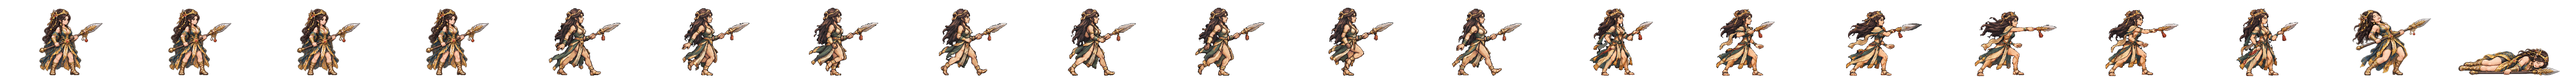
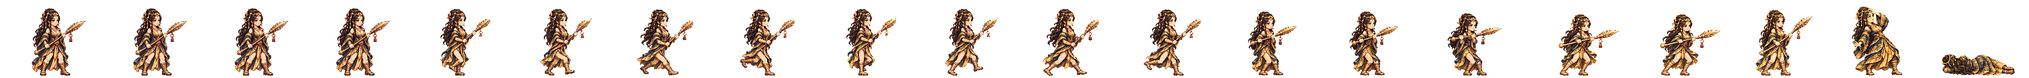
허황옥 새 전투 띠를 게임에 넣음(서기·걷기·금빛 창 찌르기 여덟 칸·쓰러짐·머리 장식 고쳐 달기)
가슴 L 뼈대 첫 장수. 걷기는 창끝을 안내 네모로 둔 것을 창날만 고친 판에서 얹었고, 쓰러짐 첫 칸은 팔을 고친 판을 썼다.
하네스 HEROES 에 음즙 벌(한 손 칼)을 더함.

Claude-Session: https://claude.ai/code/session_01TRiuN7s6aDfSnaHxrkctmU

Changed region(s): [[0.0, 0.0938, 1.0, 0.9688]]

diff --git a/src/realm/data/spritePx.ts b/src/realm/data/spritePx.ts
@@ -1,3 +1,3 @@
 /** public/realm/anim-px/manifest.json 의 사본 — tools/sprite-normalize.mjs 가 만든다 (손으로 고치지 말 것). 칸 [가로, 세로] · feet = 발 줄(칸 위에서 y) · bodyPx = 서 있는 몸 키 */
 import { expandManifest } from './sprite-manifest.ts'
-export const SPRITE_PX: Readonly<Record<string, { readonly cell: readonly [number, number]; readonly feet: number; readonly bodyPx: number; readonly kind: 'general' | 'soldier' | 'folk' | 'crowd'; readonly cells: number }>> = expandManifest<{ readonly cell: readonly [number, number]; readonly feet: number; readonly bodyPx: number; readonly kind: 'general' | 'soldier' | 'folk' | 'crowd'; readonly cells: number }>([{"cell":[166,128],"feet":126,"bodyPx":124,"kind":"soldier","cells":20},{"cell":[116,128],"feet":126,"bodyPx":117,"kind":"soldier","cells":20},{"cell":[127,128],"feet":126,"bodyPx":116,"kind":"soldier","cells":20},{"cell":[269,128],"feet":126,"bodyPx":126,"kind":"soldier","cells":20},{"cell":[503,128],"feet":126,"bodyPx":127,"kind":"soldier","cells":20},{"cell":[614,128],"feet":126,"bodyPx":126,"kind":"soldier","cells":20},{"cell":[200,160],"feet":156,"bodyPx":138,"kind":"general","cells":20},{"cell":[208,160],"feet":155,"bodyPx":138,"kind":"general","cells":20},{"cell":[208,160],"feet":154,"bodyPx":138,"kind":"general","cells":20},{"cell":[304,160],"feet":155,"bodyPx":135,"kind":"general","cells":20},{"cell":[224,160],"feet":156,"bodyPx":139,"kind":"general","cells":20},{"cell":[184,160],"feet":156,"bodyPx":138,"kind":"general","cells":20},{"cell":[208,160],"feet":154,"bodyPx":136,"kind":"general","cells":20},{"cell":[240,160],"feet":156,"bodyPx":138,"kind":"general","cells":20},{"cell":[232,160],"feet":156,"bodyPx":138,"kind":"general","cells":20},{"cell":[208,160],"feet":156,"bodyPx":138,"kind":"general","cells":20},{"cell":[168,160],"feet":156,"bodyPx":138,"kind":"general","cells":20},{"cell":[192,160],"feet":156,"bodyPx":138,"kind":"general","cells":20},{"cell":[168,160],"feet":156,"bodyPx":124,"kind":"general","cells":20},{"cell":[216,160],"feet":156,"bodyPx":130,"kind":"general","cells":20},{"cell":[200,160],"feet":156,"bodyPx":116,"kind":"general","cells":20},{"cell":[200,160],"feet":156,"bodyPx":135,"kind":"general","cells":20},{"cell":[280,160],"feet":156,"bodyPx":138,"kind":"general","cells":20},{"cell":[232,160],"feet":155,"bodyPx":138,"kind":"general","cells":20},{"cell":[232,160],"feet":156,"bodyPx":134,"kind":"general","cells":20},{"cell":[144,160],"feet":156,"bodyPx":70,"kind":"general","cells":20},{"cell":[208,160],"feet":156,"bodyPx":70,"kind":"general","cells":20},{"cell":[192,160],"feet":156,"bodyPx":70,"kind":"general","cells":20},{"cell":[240,160],"feet":155,"bodyPx":138,"kind":"general","cells":20},{"cell":[160,160],"feet":156,"bodyPx":135,"kind":"general","cells":20},{"cell":[192,160],"feet":156,"bodyPx":128,"kind":"general","cells":20},{"cell":[224,160],"feet":155,"bodyPx":138,"kind":"general","cells":20},{"cell":[232,160],"feet":156,"bodyPx":139,"kind":"general","cells":20},{"cell":[264,160],"feet":155,"bodyPx":138,"kind":"general","cells":20},{"cell":[216,160],"feet":156,"bodyPx":138,"kind":"general","cells":20},{"cell":[208,160],"feet":156,"bodyPx":134,"kind":"general","cells":20},{"cell":[176,160],"feet":156,"bodyPx":130,"kind":"general","cells":20},{"cell":[248,160],"feet":156,"bodyPx":138,"kind":"general","cells":20},{"cell":[248,160],"feet":155,"bodyPx":138,"kind":"general","cells":20},{"cell":[192,160],"feet":155,"bodyPx":138,"kind":"general","cells":20},{"cell":[192,160],"feet":156,"bodyPx":124,"kind":"general","cells":20},{"cell":[208,160],"feet":154,"bodyPx":131,"kind":"general","cells":20},{"cell":[256,160],"feet":156,"bodyPx":138,"kind":"general","cells":20},{"cell":[232,160],"feet":156,"bodyPx":73,"kind":"general","cells":20},{"cell":[256,160],"feet":155,"bodyPx":138,"kind":"general","cells":20},{"cell":[264,160],"feet":156,"bodyPx":138,"kind":"general","cells":20},{"cell":[224,160],"feet":156,"bodyPx":138,"kind":"general","cells":20},{"cell":[224,160],"feet":156,"bodyPx":128,"kind":"general","cells":20},{"cell":[176,160],"feet":156,"bodyPx":129,"kind":"general","cells":20},{"cell":[208,160],"feet":154,"bodyPx":139,"kind":"general","cells":20},{"cell":[208,160],"feet":156,"bodyPx":132,"kind":"general","cells":20},{"cell":[216,160],"feet":155,"bodyPx":138,"kind":"general","cells":20},{"cell":[184,160],"feet":156,"bodyPx":122,"kind":"general","cells":20},{"cell":[176,160],"feet":156,"bodyPx":138,"kind":"general","cells":20},{"cell":[280,160],"feet":155,"bodyPx":133,"kind":"general","cells":20},{"cell":[176,160],"feet":156,"bodyPx":70,"kind":"general","cells":20},{"cell":[186,128],"feet":126,"bodyPx":127,"kind":"soldier","cells":20},{"cell":[298,128],"feet":126,"bodyPx":126,"kind":"soldier","cells":20},{"cell":[82,128],"feet":126,"bodyPx":114,"kind":"folk","cells":8},{"cell":[134,128],"feet":126,"bodyPx":119,"kind":"soldier","cells":20},{"cell":[380,128],"feet":126,"bodyPx":124,"kind":"soldier","cells":20},{"cell":[114,128],"feet":126,"bodyPx":115,"kind":"soldier","cells":20},{"cell":[122,128],"feet":126,"bodyPx":114,"kind":"soldier","cells":20},{"cell":[254,128],"feet":126,"bodyPx":128,"kind":"soldier","cells":20},{"cell":[438,128],"feet":126,"bodyPx":126,"kind":"soldier","cells":20},{"cell":[88,128],"feet":126,"bodyPx":113,"kind":"folk","cells":8},{"cell":[100,128],"feet":126,"bodyPx":115,"kind":"folk","cells":8},{"cell":[108,128],"feet":126,"bodyPx":115,"kind":"folk","cells":8},{"cell":[63,128],"feet":126,"bodyPx":113,"kind":"folk","cells":8},{"cell":[69,96],"feet":96,"bodyPx":96,"kind":"crowd","cells":1},{"cell":[54,96],"feet":96,"bodyPx":96,"kind":"crowd","cells":1},{"cell":[47,96],"feet":96,"bodyPx":96,"kind":"crowd","cells":1},{"cell":[49,96],"feet":96,"bodyPx":96,"kind":"crowd","cells":1},{"cell":[57,96],"feet":96,"bodyPx":96,"kind":"crowd","cells":1},{"cell":[55,96],"feet":96,"bodyPx":96,"kind":"crowd","cells":1},{"cell":[45,96],"feet":96,"bodyPx":96,"kind":"crowd","cells":1},{"cell":[53,96],"feet":96,"bodyPx":96,"kind":"crowd","cells":1},{"cell":[64,96],"feet":96,"bodyPx":96,"kind":"crowd","cells":1},{"cell":[184,160],"feet":156,"bodyPx":124,"kind":"general","cells":20},{"cell":[184,160],"feet":156,"bodyPx":134,"kind":"general","cells":20},{"cell":[224,160],"feet":156,"bodyPx":133,"kind":"general","cells":20},{"cell":[192,160],"feet":156,"bodyPx":135,"kind":"general","cells":20},{"cell":[184,160],"feet":156,"bodyPx":137,"kind":"general","cells":20},{"cell":[216,160],"feet":156,"bodyPx":134,"kind":"general","cells":20},{"cell":[216,160],"feet":156,"bodyPx":132,"kind":"general","cells":20},{"cell":[288,160],"feet":156,"bodyPx":138,"kind":"general","cells":20},{"cell":[192,160],"feet":156,"bodyPx":118,"kind":"general","cells":20},{"cell":[192,160],"feet":156,"bodyPx":134,"kind":"general","cells":20},{"cell":[192,160],"feet":157,"bodyPx":139,"kind":"general","cells":20},{"cell":[184,160],"feet":156,"bodyPx":128,"kind":"general","cells":20},{"cell":[240,160],"feet":156,"bodyPx":128,"kind":"general","cells":20},{"cell":[184,160],"feet":156,"bodyPx":132,"kind":"general","cells":20},{"cell":[208,160],"feet":156,"bodyPx":123,"kind":"general","cells":20},{"cell":[208,160],"feet":154,"bodyPx":137,"kind":"general","cells":20},{"cell":[176,160],"feet":156,"bodyPx":116,"kind":"general","cells":20},{"cell":[272,160],"feet":156,"bodyPx":138,"kind":"general","cells":20},{"cell":[176,160],"feet":156,"bodyPx":122,"kind":"general","cells":20},{"cell":[232,160],"feet":156,"bodyPx":127,"kind":"general","cells":20},{"cell":[176,160],"feet":156,"bodyPx":137,"kind":"general","cells":20},{"cell":[184,160],"feet":156,"bodyPx":133,"kind":"general","cells":20}],[["axe",0],["bandit-chief",1],["bandit-club",2],["boat",3],["bow",4],["crossbow",5],["gen-adogan",6],["gen-alpyeong",7],["gen-ara",8],["gen-areum",8],["gen-aryeong",9],["gen-bakdal",6],["gen-baram",10],["gen-bdanbi",11],["gen-beom",12],["gen-beombal",11],["gen-beomi",13],["gen-bira",14],["gen-biryu",15],["gen-budeul",16],["gen-byeol",17],["gen-daemusin",18],["gen-daeso",19],["gen-dallae2",11],["gen-dalli",11],["gen-damul",20],["gen-danbi",15],["gen-dangung",17],["gen-darae",21],["gen-dokmudeom",7],["gen-duman",22],["gen-eomni",23],["gen-eureum",24],["gen-g-bow",25],["gen-g-spear",26],["gen-g-sword",27],["gen-gaennae",6],["gen-gamsil",28],["gen-gaon",29],["gen-geota",15],["gen-geumbawi",11],["gen-geumha",30],["gen-goeun",15],["gen-gom",31],["gen-gomok",15],["gen-gureum",28],["gen-guryema",17],["gen-gwaeyu",14],["gen-haebi",8],["gen-haedal",6],["gen-haesol",32],["gen-halla",7],["gen-heo",33],["gen-hneoul",11],["gen-hogong",34],["gen-hojin",15],["gen-horselord",35],["gen-hwalmi",36],["gen-hyeokgeose",17],["gen-hyeopbo",6],["gen-irang",15],["gen-jibaekho",37],["gen-jinha",38],["gen-jita",39],["gen-jumong",40],["gen-keundol",7],["gen-maehwa",41],["gen-maenun",17],["gen-malgalgi",42],["gen-mari",13],["gen-maro",37],["gen-maryeo",15],["gen-mdallae",32],["gen-mir",6],["gen-mount",43],["gen-mulbeom",44],["gen-mulsae",34],["gen-musoe",34],["gen-noeul",8],["gen-nuri",45],["gen-ocheongan",46],["gen-odi",38],["gen-odogan",6],["gen-ogan",17],["gen-oi",47],["gen-olddaeso",24],["gen-onjo",48],["gen-pidogan",15],["gen-sagong",49],["gen-sdallae",6],["gen-sincheongan",34],["gen-singwigan",34],["gen-sinneoul",8],["gen-sobeol",23],["gen-soebi",6],["gen-soebo",50],["gen-soenun",37],["gen-sogeumbi",51],["gen-songbi",46],["gen-songyang",52],["gen-sori",53],["gen-soseono",54],["gen-suro",17],["gen-tahae",6],["gen-tneoul",46],["gen-w-bow",25],["gen-w-spear",55],["gen-waechief",15],["gen-wan",34],["gen-yeodogan",15],["gen-yucheongan",15],["gen-yusugan",37],["horse",56],["marine",57],["migrant",58],["militia",59],["pike",60],["pirate-captain",61],["pirate-sword",62],["shield",63],["spear",64],["villager-builder",65],["villager-farmer",66],["villager-porter",67],["villager-woman",68],["crowd-b1",69],["crowd-b2",70],["crowd-b3",71],["crowd-b4",72],["crowd-b5",73],["crowd-b6",74],["crowd-f1",69],["crowd-f2",74],["crowd-f3",75],["crowd-f4",76],["crowd-f5",69],["crowd-f6",77],["gen-dalbit",15],["gen-base-g-07-drunk-warrior",17],["gen-base-g-40-anya-adan",15],["gen-base-w-13-young-archer",8],["gen-base-g-03-sea-trader",13],["gen-base-w-10-pirate-captain",49],["gen-base-w-64-miri-dallae",49],["gen-base-g-41-goja-bau",13],["gen-base-g-42-dokro-garam",45],["gen-base-g-09-farmer-conscript",34],["gen-base-w-02-goguryeo-lady",34],["gen-base-w-17-mahan-pearl-diver",8],["gen-base-g-17-saro-isageum",50],["gen-base-g-18-daegaya-king",78],["gen-base-g-35-dabeol-dalgu",15],["gen-base-g-19-sabeol-veteran",34],["gen-base-w-23-usisan-whale-queen",34],["gen-base-g-36-gammun-gamdol",46],["gen-base-g-20-samul-sea-lord",42],["gen-base-g-37-eumjeup-jeup",11],["gen-base-g-38-chopal-palmae",17],["gen-base-w-75-daegaya-soemoe",17],["gen-base-g-45-dabeol-deulgae",11],["gen-base-g-04-jinhan-giant",15],["gen-base-g-08-veteran",15],["gen-base-w-18-jinhan-salt-widow",15],["gen-base-w-12-court-dancer",79],["gen-base-w-83-gyeonji-beodeul",80],["gen-base-w-05-baekje-queen",81],["gen-base-w-21-baekje-court-dancer",11],["gen-base-g-01-master-smith",82],["gen-base-g-93-jomun-solgae",36],["gen-base-g-57-bihwa-neup",13],["gen-base-w-72-eumjeup-beol",15],["gen-base-w-102-garak-dana",34],["gen-base-g-68-baekje-onnuri",15],["gen-base-w-27-mokji-jinha",6],["gen-base-g-22-ungcheon-gomnae",6],["gen-base-g-23-sangdang-soedal",15],["gen-base-g-24-wansan-onsan",6],["gen-base-g-25-balla-keunmoe",34],["gen-base-g-61-heomcheuk-bawi",34],["gen-base-g-88-wander-soeul",46],["gen-base-w-14-feast-spy",6],["gen-base-g-12-silla-youth",83],["gen-base-w-08-mahan-warrior",13],["gen-base-g-62-beonye-hanul",13],["gen-base-g-63-heomcheuk-beogeum",15],["gen-base-g-84-wander-seoneul",15],["gen-base-w-50-siljik-mulga",34],["gen-base-g-46-uga-nureongso",34],["gen-base-w-80-usan-gangchi",13],["gen-base-g-47-guga-sanyanggae",34],["gen-base-w-76-gampyeong-baetsagong",37],["gen-base-g-05-mahan-chieftain",84],["gen-base-g-58-usan-uhae",15],["gen-base-g-27-maek-maekdol",15],["gen-base-w-53-hwanna-gabi",16],["gen-base-w-29-golpo-janmul",37],["gen-base-g-53-baekje-haeru",6],["gen-base-w-71-yeonna-neoul",13],["gen-base-w-79-yangmaek-solmae",34],["gen-base-w-34-chopal-deulme",45],["gen-base-g-44-maga-malgup",85],["gen-base-w-31-dabeol-dalbit",49],["gen-base-g-51-biryuna-mulgyeol",46],["gen-base-g-48-gwanna-musoe",15],["gen-base-g-32-uga-sodu",14],["gen-base-g-49-goguryeo-sona",86],["gen-base-g-30-gwanna-soemoe",46],["gen-base-g-52-tamna-oreum",11],["gen-base-g-29-yeonna-myeongsol",40],["gen-base-w-56-dongokjeo-sogeum",87],["gen-base-g-54-mokji-mahan",14],["gen-base-g-33-jeoga-metdol",17],["gen-base-w-36-baekje-maena",17],["gen-base-w-38-sangdang-bulmae",6],["gen-base-w-39-gosaburi-galmae",88],["gen-base-w-40-mujin-munui",50],["gen-base-w-41-hwanna-beodeul",89],["gen-base-w-43-uga-nuri",42],["gen-base-w-45-tamna-oreumbi",11],["gen-base-g-60-golbeol-golgae",11],["gen-base-g-61-apdok-ap",34],["gen-base-g-62-gammun-gamnamu",6],["gen-base-g-63-chopal-yeoul",37],["gen-base-g-64-michuhol-sogeumkkun",13],["gen-base-g-65-sangdang-soemangchi",46],["gen-base-g-66-geonma-malbalgup",90],["gen-base-g-67-gosaburi-buri",91],["gen-base-g-68-mujin-bitgoeul",11],["gen-base-g-69-goryong-yong",46],["gen-base-g-70-siljik-pado",13],["gen-base-w-81-byeokjin-byeolbit",14],["gen-base-w-46-geonma-maru",37],["gen-base-w-48-mujin-mudeung",13],["gen-base-g-26-gampyeong-gaetbeol",14],["gen-base-g-60-eupcha-hangyeol",92],["gen-base-g-15-shaman-man",34],["gen-base-g-85-wander-ure",37],["gen-base-g-43-hwanna-amnok",15],["gen-base-g-50-bullae-gwaha",81],["gen-base-g-55-saro-bakdal",15],["gen-base-g-56-haseulla-gwahama",6],["gen-base-w-06-buyeo-huntress",93],["gen-base-w-22-dongye-tiger-huntress",8],["gen-base-w-25-bihwa-priestess",34],["gen-base-w-24-apdok-queen",11],["gen-base-w-61-iseo-sinae",15],["gen-base-w-26-iseo-tomboy-general",45],["gen-base-g-59-yangmaek-maekson",94],["gen-aw1-haebi",46],["gen-aw1-soseono",95],["gen-aw1-gamsil",11],["gen-aw1-mir",53],["gen-aw1-dangung",6],["gen-aw1-ara",46],["gen-aw1-jumong",96],["gen-aw1-onjo",97],["gen-aw1-base-w-83-gyeonji-beodeul",17],["gen-aw1-heo",45],["gen-aw1-base-g-38-chopal-palmae",6],["gen-aw1-base-w-25-bihwa-priestess",79],["gen-aw1-sori",16],["gen-aw1-gomok",6],["gen-aw1-irang",17],["gen-aw1-budeul",16],["gen-aw1-gom",13],["gen-aw1-sdallae",6],["gen-aw1-base-w-13-young-archer",6],["gen-aw1-base-w-36-baekje-maena",98],["gen-aw1-base-g-09-farmer-conscript",45],["gen-aw1-base-w-02-goguryeo-lady",99],["gen-aw1-haedal",11],["gen-aw1-hogong",6],["gen-aw1-maehwa",53],["gen-aw1-base-w-06-buyeo-huntress",14],["gen-aw1-base-w-08-mahan-warrior",46],["gen-aw1-base-w-29-golpo-janmul",46],["gen-aw1-base-w-31-dabeol-dalbit",17],["gen-aw1-base-w-38-sangdang-bulmae",16],["gen-aw1-bira",34],["gen-aw1-base-w-53-hwanna-gabi",16],["gen-aw1-base-w-56-dongokjeo-sogeum",53],["gen-aw1-base-w-72-eumjeup-beol",17],["gen-aw1-bdanbi",16],["gen-aw1-beom",11],["gen-aw1-beombal",11],["gen-aw1-byeol",17],["gen-aw1-dalli",53],["gen-aw1-malgalgi",37],["gen-aw1-sincheongan",34]])
+export const SPRITE_PX: Readonly<Record<string, { readonly cell: readonly [number, number]; readonly feet: number; readonly bodyPx: number; readonly kind: 'general' | 'soldier' | 'folk' | 'crowd'; readonly cells: number }>> = expandManifest<{ readonly cell: readonly [number, number]; readonly feet: number; readonly bodyPx: number; readonly kind: 'general' | 'soldier' | 'folk' | 'crowd'; readonly cells: number }>([{"cell":[166,128],"feet":126,"bodyPx":124,"kind":"soldier","cells":20},{"cell":[116,128],"feet":126,"bodyPx":117,"kind":"soldier","cells":20},{"cell":[127,128],"feet":126,"bodyPx":116,"kind":"soldier","cells":20},{"cell":[269,128],"feet":126,"bodyPx":126,"kind":"soldier","cells":20},{"cell":[503,128],"feet":126,"bodyPx":127,"kind":"soldier","cells":20},{"cell":[614,128],"feet":126,"bodyPx":126,"kind":"soldier","cells":20},{"cell":[200,160],"feet":156,"bodyPx":138,"kind":"general","cells":20},{"cell":[208,160],"feet":155,"bodyPx":138,"kind":"general","cells":20},{"cell":[208,160],"feet":154,"bodyPx":138,"kind":"general","cells":20},{"cell":[304,160],"feet":155,"bodyPx":135,"kind":"general","cells":20},{"cell":[224,160],"feet":156,"bodyPx":139,"kind":"general","cells":20},{"cell":[184,160],"feet":156,"bodyPx":138,"kind":"general","cells":20},{"cell":[208,160],"feet":154,"bodyPx":136,"kind":"general","cells":20},{"cell":[240,160],"feet":156,"bodyPx":138,"kind":"general","cells":20},{"cell":[232,160],"feet":156,"bodyPx":138,"kind":"general","cells":20},{"cell":[208,160],"feet":156,"bodyPx":138,"kind":"general","cells":20},{"cell":[168,160],"feet":156,"bodyPx":138,"kind":"general","cells":20},{"cell":[192,160],"feet":156,"bodyPx":138,"kind":"general","cells":20},{"cell":[168,160],"feet":156,"bodyPx":124,"kind":"general","cells":20},{"cell":[216,160],"feet":156,"bodyPx":130,"kind":"general","cells":20},{"cell":[200,160],"feet":156,"bodyPx":116,"kind":"general","cells":20},{"cell":[200,160],"feet":156,"bodyPx":135,"kind":"general","cells":20},{"cell":[280,160],"feet":156,"bodyPx":138,"kind":"general","cells":20},{"cell":[232,160],"feet":155,"bodyPx":138,"kind":"general","cells":20},{"cell":[232,160],"feet":156,"bodyPx":134,"kind":"general","cells":20},{"cell":[144,160],"feet":156,"bodyPx":70,"kind":"general","cells":20},{"cell":[208,160],"feet":156,"bodyPx":70,"kind":"general","cells":20},{"cell":[192,160],"feet":156,"bodyPx":70,"kind":"general","cells":20},{"cell":[240,160],"feet":155,"bodyPx":138,"kind":"general","cells":20},{"cell":[160,160],"feet":156,"bodyPx":135,"kind":"general","cells":20},{"cell":[192,160],"feet":156,"bodyPx":128,"kind":"general","cells":20},{"cell":[224,160],"feet":155,"bodyPx":138,"kind":"general","cells":20},{"cell":[232,160],"feet":156,"bodyPx":139,"kind":"general","cells":20},{"cell":[216,160],"feet":156,"bodyPx":138,"kind":"general","cells":20},{"cell":[208,160],"feet":156,"bodyPx":134,"kind":"general","cells":20},{"cell":[176,160],"feet":156,"bodyPx":130,"kind":"general","cells":20},{"cell":[248,160],"feet":156,"bodyPx":138,"kind":"general","cells":20},{"cell":[248,160],"feet":155,"bodyPx":138,"kind":"general","cells":20},{"cell":[192,160],"feet":155,"bodyPx":138,"kind":"general","cells":20},{"cell":[192,160],"feet":156,"bodyPx":124,"kind":"general","cells":20},{"cell":[208,160],"feet":154,"bodyPx":131,"kind":"general","cells":20},{"cell":[256,160],"feet":156,"bodyPx":138,"kind":"general","cells":20},{"cell":[232,160],"feet":156,"bodyPx":73,"kind":"general","cells":20},{"cell":[256,160],"feet":155,"bodyPx":138,"kind":"general","cells":20},{"cell":[264,160],"feet":156,"bodyPx":138,"kind":"general","cells":20},{"cell":[224,160],"feet":156,"bodyPx":138,"kind":"general","cells":20},{"cell":[224,160],"feet":156,"bodyPx":128,"kind":"general","cells":20},{"cell":[176,160],"feet":156,"bodyPx":129,"kind":"general","cells":20},{"cell":[208,160],"feet":154,"bodyPx":139,"kind":"general","cells":20},{"cell":[208,160],"feet":156,"bodyPx":132,"kind":"general","cells":20},{"cell":[216,160],"feet":155,"bodyPx":138,"kind":"general","cells":20},{"cell":[184,160],"feet":156,"bodyPx":122,"kind":"general","cells":20},{"cell":[176,160],"feet":156,"bodyPx":138,"kind":"general","cells":20},{"cell":[280,160],"feet":155,"bodyPx":133,"kind":"general","cells":20},{"cell":[176,160],"feet":156,"bodyPx":70,"kind":"general","cells":20},{"cell":[186,128],"feet":126,"bodyPx":127,"kind":"soldier","cells":20},{"cell":[298,128],"feet":126,"bodyPx":126,"kind":"soldier","cells":20},{"cell":[82,128],"feet":126,"bodyPx":114,"kind":"folk","cells":8},{"cell":[134,128],"feet":126,"bodyPx":119,"kind":"soldier","cells":20},{"cell":[380,128],"feet":126,"bodyPx":124,"kind":"soldier","cells":20},{"cell":[114,128],"feet":126,"bodyPx":115,"kind":"soldier","cells":20},{"cell":[122,128],"feet":126,"bodyPx":114,"kind":"soldier","cells":20},{"cell":[254,128],"feet":126,"bodyPx":128,"kind":"soldier","cells":20},{"cell":[438,128],"feet":126,"bodyPx":126,"kind":"soldier","cells":20},{"cell":[88,128],"feet":126,"bodyPx":113,"kind":"folk","cells":8},{"cell":[100,128],"feet":126,"bodyPx":115,"kind":"folk","cells":8},{"cell":[108,128],"feet":126,"bodyPx":115,"kind":"folk","cells":8},{"cell":[63,128],"feet":126,"bodyPx":113,"kind":"folk","cells":8},{"cell":[69,96],"feet":96,"bodyPx":96,"kind":"crowd","cells":1},{"cell":[54,96],"feet":96,"bodyPx":96,"kind":"crowd","cells":1},{"cell":[47,96],"feet":96,"bodyPx":96,"kind":"crowd","cells":1},{"cell":[49,96],"feet":96,"bodyPx":96,"kind":"crowd","cells":1},{"cell":[57,96],"feet":96,"bodyPx":96,"kind":"crowd","cells":1},{"cell":[55,96],"feet":96,"bodyPx":96,"kind":"crowd","cells":1},{"cell":[45,96],"feet":96,"bodyPx":96,"kind":"crowd","cells":1},{"cell":[53,96],"feet":96,"bodyPx":96,"kind":"crowd","cells":1},{"cell":[64,96],"feet":96,"bodyPx":96,"kind":"crowd","cells":1},{"cell":[184,160],"feet":156,"bodyPx":124,"kind":"general","cells":20},{"cell":[184,160],"feet":156,"bodyPx":134,"kind":"general","cells":20},{"cell":[224,160],"feet":156,"bodyPx":133,"kind":"general","cells":20},{"cell":[192,160],"feet":156,"bodyPx":135,"kind":"general","cells":20},{"cell":[184,160],"feet":156,"bodyPx":137,"kind":"general","cells":20},{"cell":[216,160],"feet":156,"bodyPx":134,"kind":"general","cells":20},{"cell":[216,160],"feet":156,"bodyPx":132,"kind":"general","cells":20},{"cell":[288,160],"feet":156,"bodyPx":138,"kind":"general","cells":20},{"cell":[192,160],"feet":156,"bodyPx":118,"kind":"general","cells":20},{"cell":[192,160],"feet":156,"bodyPx":134,"kind":"general","cells":20},{"cell":[192,160],"feet":157,"bodyPx":139,"kind":"general","cells":20},{"cell":[184,160],"feet":156,"bodyPx":128,"kind":"general","cells":20},{"cell":[240,160],"feet":156,"bodyPx":128,"kind":"general","cells":20},{"cell":[184,160],"feet":156,"bodyPx":132,"kind":"general","cells":20},{"cell":[208,160],"feet":156,"bodyPx":123,"kind":"general","cells":20},{"cell":[208,160],"feet":154,"bodyPx":137,"kind":"general","cells":20},{"cell":[176,160],"feet":156,"bodyPx":116,"kind":"general","cells":20},{"cell":[272,160],"feet":156,"bodyPx":138,"kind":"general","cells":20},{"cell":[176,160],"feet":156,"bodyPx":122,"kind":"general","cells":20},{"cell":[232,160],"feet":156,"bodyPx":127,"kind":"general","cells":20},{"cell":[176,160],"feet":156,"bodyPx":137,"kind":"general","cells":20},{"cell":[184,160],"feet":156,"bodyPx":133,"kind":"general","cells":20}],[["axe",0],["bandit-chief",1],["bandit-club",2],["boat",3],["bow",4],["crossbow",5],["gen-adogan",6],["gen-alpyeong",7],["gen-ara",8],["gen-areum",8],["gen-aryeong",9],["gen-bakdal",6],["gen-baram",10],["gen-bdanbi",11],["gen-beom",12],["gen-beombal",11],["gen-beomi",13],["gen-bira",14],["gen-biryu",15],["gen-budeul",16],["gen-byeol",17],["gen-daemusin",18],["gen-daeso",19],["gen-dallae2",11],["gen-dalli",11],["gen-damul",20],["gen-danbi",15],["gen-dangung",17],["gen-darae",21],["gen-dokmudeom",7],["gen-duman",22],["gen-eomni",23],["gen-eureum",24],["gen-g-bow",25],["gen-g-spear",26],["gen-g-sword",27],["gen-gaennae",6],["gen-gamsil",28],["gen-gaon",29],["gen-geota",15],["gen-geumbawi",11],["gen-geumha",30],["gen-goeun",15],["gen-gom",31],["gen-gomok",15],["gen-gureum",28],["gen-guryema",17],["gen-gwaeyu",14],["gen-haebi",8],["gen-haedal",6],["gen-haesol",32],["gen-halla",7],["gen-heo",8],["gen-hneoul",11],["gen-hogong",33],["gen-hojin",15],["gen-horselord",34],["gen-hwalmi",35],["gen-hyeokgeose",17],["gen-hyeopbo",6],["gen-irang",15],["gen-jibaekho",36],["gen-jinha",37],["gen-jita",38],["gen-jumong",39],["gen-keundol",7],["gen-maehwa",40],["gen-maenun",17],["gen-malgalgi",41],["gen-mari",13],["gen-maro",36],["gen-maryeo",15],["gen-mdallae",32],["gen-mir",6],["gen-mount",42],["gen-mulbeom",43],["gen-mulsae",33],["gen-musoe",33],["gen-noeul",8],["gen-nuri",44],["gen-ocheongan",45],["gen-odi",37],["gen-odogan",6],["gen-ogan",17],["gen-oi",46],["gen-olddaeso",24],["gen-onjo",47],["gen-pidogan",15],["gen-sagong",48],["gen-sdallae",6],["gen-sincheongan",33],["gen-singwigan",33],["gen-sinneoul",8],["gen-sobeol",23],["gen-soebi",6],["gen-soebo",49],["gen-soenun",36],["gen-sogeumbi",50],["gen-songbi",45],["gen-songyang",51],["gen-sori",52],["gen-soseono",53],["gen-suro",17],["gen-tahae",6],["gen-tneoul",45],["gen-w-bow",25],["gen-w-spear",54],["gen-waechief",15],["gen-wan",33],["gen-yeodogan",15],["gen-yucheongan",15],["gen-yusugan",36],["horse",55],["marine",56],["migrant",57],["militia",58],["pike",59],["pirate-captain",60],["pirate-sword",61],["shield",62],["spear",63],["villager-builder",64],["villager-farmer",65],["villager-porter",66],["villager-woman",67],["crowd-b1",68],["crowd-b2",69],["crowd-b3",70],["crowd-b4",71],["crowd-b5",72],["crowd-b6",73],["crowd-f1",68],["crowd-f2",73],["crowd-f3",74],["crowd-f4",75],["crowd-f5",68],["crowd-f6",76],["gen-dalbit",15],["gen-base-g-07-drunk-warrior",17],["gen-base-g-40-anya-adan",15],["gen-base-w-13-young-archer",8],["gen-base-g-03-sea-trader",13],["gen-base-w-10-pirate-captain",48],["gen-base-w-64-miri-dallae",48],["gen-base-g-41-goja-bau",13],["gen-base-g-42-dokro-garam",44],["gen-base-g-09-farmer-conscript",33],["gen-base-w-02-goguryeo-lady",33],["gen-base-w-17-mahan-pearl-diver",8],["gen-base-g-17-saro-isageum",49],["gen-base-g-18-daegaya-king",77],["gen-base-g-35-dabeol-dalgu",15],["gen-base-g-19-sabeol-veteran",33],["gen-base-w-23-usisan-whale-queen",33],["gen-base-g-36-gammun-gamdol",45],["gen-base-g-20-samul-sea-lord",41],["gen-base-g-37-eumjeup-jeup",11],["gen-base-g-38-chopal-palmae",17],["gen-base-w-75-daegaya-soemoe",17],["gen-base-g-45-dabeol-deulgae",11],["gen-base-g-04-jinhan-giant",15],["gen-base-g-08-veteran",15],["gen-base-w-18-jinhan-salt-widow",15],["gen-base-w-12-court-dancer",78],["gen-base-w-83-gyeonji-beodeul",79],["gen-base-w-05-baekje-queen",80],["gen-base-w-21-baekje-court-dancer",11],["gen-base-g-01-master-smith",81],["gen-base-g-93-jomun-solgae",35],["gen-base-g-57-bihwa-neup",13],["gen-base-w-72-eumjeup-beol",15],["gen-base-w-102-garak-dana",33],["gen-base-g-68-baekje-onnuri",15],["gen-base-w-27-mokji-jinha",6],["gen-base-g-22-ungcheon-gomnae",6],["gen-base-g-23-sangdang-soedal",15],["gen-base-g-24-wansan-onsan",6],["gen-base-g-25-balla-keunmoe",33],["gen-base-g-61-heomcheuk-bawi",33],["gen-base-g-88-wander-soeul",45],["gen-base-w-14-feast-spy",6],["gen-base-g-12-silla-youth",82],["gen-base-w-08-mahan-warrior",13],["gen-base-g-62-beonye-hanul",13],["gen-base-g-63-heomcheuk-beogeum",15],["gen-base-g-84-wander-seoneul",15],["gen-base-w-50-siljik-mulga",33],["gen-base-g-46-uga-nureongso",33],["gen-base-w-80-usan-gangchi",13],["gen-base-g-47-guga-sanyanggae",33],["gen-base-w-76-gampyeong-baetsagong",36],["gen-base-g-05-mahan-chieftain",83],["gen-base-g-58-usan-uhae",15],["gen-base-g-27-maek-maekdol",15],["gen-base-w-53-hwanna-gabi",16],["gen-base-w-29-golpo-janmul",36],["gen-base-g-53-baekje-haeru",6],["gen-base-w-71-yeonna-neoul",13],["gen-base-w-79-yangmaek-solmae",33],["gen-base-w-34-chopal-deulme",44],["gen-base-g-44-maga-malgup",84],["gen-base-w-31-dabeol-dalbit",48],["gen-base-g-51-biryuna-mulgyeol",45],["gen-base-g-48-gwanna-musoe",15],["gen-base-g-32-uga-sodu",14],["gen-base-g-49-goguryeo-sona",85],["gen-base-g-30-gwanna-soemoe",45],["gen-base-g-52-tamna-oreum",11],["gen-base-g-29-yeonna-myeongsol",39],["gen-base-w-56-dongokjeo-sogeum",86],["gen-base-g-54-mokji-mahan",14],["gen-base-g-33-jeoga-metdol",17],["gen-base-w-36-baekje-maena",17],["gen-base-w-38-sangdang-bulmae",6],["gen-base-w-39-gosaburi-galmae",87],["gen-base-w-40-mujin-munui",49],["gen-base-w-41-hwanna-beodeul",88],["gen-base-w-43-uga-nuri",41],["gen-base-w-45-tamna-oreumbi",11],["gen-base-g-60-golbeol-golgae",11],["gen-base-g-61-apdok-ap",33],["gen-base-g-62-gammun-gamnamu",6],["gen-base-g-63-chopal-yeoul",36],["gen-base-g-64-michuhol-sogeumkkun",13],["gen-base-g-65-sangdang-soemangchi",45],["gen-base-g-66-geonma-malbalgup",89],["gen-base-g-67-gosaburi-buri",90],["gen-base-g-68-mujin-bitgoeul",11],["gen-base-g-69-goryong-yong",45],["gen-base-g-70-siljik-pado",13],["gen-base-w-81-byeokjin-byeolbit",14],["gen-base-w-46-geonma-maru",36],["gen-base-w-48-mujin-mudeung",13],["gen-base-g-26-gampyeong-gaetbeol",14],["gen-base-g-60-eupcha-hangyeol",91],["gen-base-g-15-shaman-man",33],["gen-base-g-85-wander-ure",36],["gen-base-g-43-hwanna-amnok",15],["gen-base-g-50-bullae-gwaha",80],["gen-base-g-55-saro-bakdal",15],["gen-base-g-56-haseulla-gwahama",6],["gen-base-w-06-buyeo-huntress",92],["gen-base-w-22-dongye-tiger-huntress",8],["gen-base-w-25-bihwa-priestess",33],["gen-base-w-24-apdok-queen",11],["gen-base-w-61-iseo-sinae",15],["gen-base-w-26-iseo-tomboy-general",44],["gen-base-g-59-yangmaek-maekson",93],["gen-aw1-haebi",45],["gen-aw1-soseono",94],["gen-aw1-gamsil",11],["gen-aw1-mir",52],["gen-aw1-dangung",6],["gen-aw1-ara",45],["gen-aw1-jumong",95],["gen-aw1-onjo",96],["gen-aw1-base-w-83-gyeonji-beodeul",17],["gen-aw1-heo",44],["gen-aw1-base-g-38-chopal-palmae",6],["gen-aw1-base-w-25-bihwa-priestess",78],["gen-aw1-sori",16],["gen-aw1-gomok",6],["gen-aw1-irang",17],["gen-aw1-budeul",16],["gen-aw1-gom",13],["gen-aw1-sdallae",6],["gen-aw1-base-w-13-young-archer",6],["gen-aw1-base-w-36-baekje-maena",97],["gen-aw1-base-g-09-farmer-conscript",44],["gen-aw1-base-w-02-goguryeo-lady",98],["gen-aw1-haedal",11],["gen-aw1-hogong",6],["gen-aw1-maehwa",52],["gen-aw1-base-w-06-buyeo-huntress",14],["gen-aw1-base-w-08-mahan-warrior",45],["gen-aw1-base-w-29-golpo-janmul",45],["gen-aw1-base-w-31-dabeol-dalbit",17],["gen-aw1-base-w-38-sangdang-bulmae",16],["gen-aw1-bira",33],["gen-aw1-base-w-53-hwanna-gabi",16],["gen-aw1-base-w-56-dongokjeo-sogeum",52],["gen-aw1-base-w-72-eumjeup-beol",17],["gen-aw1-bdanbi",16],["gen-aw1-beom",11],["gen-aw1-beombal",11],["gen-aw1-byeol",17],["gen-aw1-dalli",52],["gen-aw1-malgalgi",36],["gen-aw1-sincheongan",33]])

diff --git a/src/duel/view.ts b/src/duel/view.ts
@@ -100,7 +100,7 @@ const crowdFront = [1, 2, 3, 4, 5, 6].map((i) => img(`realm/duel/crowd/b${i}.png
 const crowdReady = (set: HTMLImageElement[]): boolean => set.every((im) => im.complete && im.naturalWidth > 0)
 const pxMode = cfg.px !== false && params.get('px') !== '0'
 /** 겨루기 전용 옛 띠(duel/sprites) 대신 열전과 같은 도트 띠(anim-px)를 쓰는 장수 — 두 판에서 같은 모습 · 서기 계획·쓰러지는 칸도 같다 (11-23 범 · 매화 · 달빛 · 11-24 해비 · 아룸) */
-const PX_DUEL: ReadonlySet<string> = new Set(['beom', 'maehwa', 'base-w-31-dabeol-dalbit', 'haebi', 'areum', 'base-w-13-young-archer', 'base-w-10-pirate-captain', 'base-w-17-mahan-pearl-diver', 'base-w-06-buyeo-huntress', 'base-w-64-miri-dallae', 'ara', 'base-w-22-dongye-tiger-huntress', 'noeul', 'sagong', 'sinneoul'])
+const PX_DUEL: ReadonlySet<string> = new Set(['beom', 'maehwa', 'base-w-31-dabeol-dalbit', 'haebi', 'areum', 'base-w-13-young-archer', 'base-w-10-pirate-captain', 'base-w-17-mahan-pearl-diver', 'base-w-06-buyeo-huntress', 'base-w-64-miri-dallae', 'ara', 'base-w-22-dongye-tiger-huntress', 'noeul', 'sagong', 'sinneoul', 'heo'])
 /** 띠 그림 — 기본은 anim-px(도트 규격) 먼저, 없으면 옛 띠로 (img 의 onerror 가 갈아 끼운다) */
 const strip = (s: string): HTMLImageElement => pxMode
   ? DUEL_ATLASES[s] !== undefined && !PX_DUEL.has(s) ? img(`realm/duel/sprites/gen-${s}.png`, `realm/anim-px/gen-${s}.png`)

diff --git a/src/tune/params.ts b/src/tune/params.ts
@@ -1425,6 +1425,7 @@ export const HAEBI_IDLE = {
     noeul: { cells: 26, base: [0, 1], hold: 2.4, fall: [18, 20, 21, 19], quirk: [22, 23, 24, 25], quirkTimes: [.28, .3, .42, .25] },
     sagong: { cells: 34, base: [0, 1], hold: 2.4, fall: [18, 20, 21, 19], quirk: [22, 23, 24, 25], quirkTimes: [.3, .32, .4, .28], attack: { cells: [26, 27, 28, 29, 30, 31, 32, 33], times: [.09, .08, .11, .05, .15, .07, .08, .12], hit: 4 }, xGeom: { h: 224, root: 92, foot: 216 } },
     sinneoul: { cells: 34, base: [0, 1], hold: 2.4, fall: [18, 20, 21, 19], quirk: [22, 23, 24, 25], quirkTimes: [.3, .32, .4, .28], attack: { cells: [26, 27, 28, 29, 30, 31, 32, 33], times: [.09, .08, .11, .05, .15, .07, .08, .12], hit: 4 }, xGeom: { h: 224, root: 92, foot: 216 } },
+    heo: { cells: 34, base: [0, 1], hold: 2.4, fall: [18, 20, 21, 19], quirk: [22, 23, 24, 25], quirkTimes: [.3, .32, .4, .28], attack: { cells: [26, 27, 28, 29, 30, 31, 32, 33], times: [.09, .08, .11, .05, .15, .07, .08, .12], hit: 4 }, xGeom: { h: 224, root: 92, foot: 216 } },
   },
 } as const
 export const HAEBI_ANIM = {

diff --git a/src/raid/hero-hd.ts b/src/raid/hero-hd.ts
@@ -66,7 +66,6 @@ export const HERO_HD: Readonly<Record<string, string>> = {
   'anim-px/gen-aw1-base-g-38-chopal-palmae.png': 'anim-px/gen-aw1-base-g-38-chopal-palmae_hd.png',
   'anim-px/gen-base-g-38-chopal-palmae.png': 'anim-px/gen-base-g-38-chopal-palmae_hd.png',
   'anim-px/gen-mir.png': 'anim-px/gen-mir_hd.png',
-  'anim-px/gen-heo.png': 'anim-px/gen-heo_hd.png',
   'anim-px/gen-aw1-mir.png': 'anim-px/gen-aw1-mir_hd.png',
   'anim-px/gen-aw1-jumong.png': 'anim-px/gen-aw1-jumong_hd.png',
   'anim-px/gen-aw1-heo.png': 'anim-px/gen-aw1-heo_hd.png',

diff --git a/tools/sprite-kit/anim-harness.py b/tools/sprite-kit/anim-harness.py
@@ -50,6 +50,7 @@ HEROES = {
     'mwarrior': dict(strip='gen-base-w-08-mahan-warrior', atk='thrust', atk8=True, act=True, legacy=(('a', 2), ('a', 3), ('b', 3), ('b', 4))),   # 마한 전사(창 · 우람한 뼈대)
     'whaleq': dict(strip='gen-base-w-23-usisan-whale-queen', atk='thrust', atk8=True, act=True, legacy=(('a', 2), ('a', 3), ('b', 3), ('b', 4))),   # 우시산 고래 여왕(미늘 작살 · 우람한 뼈대)
     'tomboy': dict(strip='gen-base-w-26-iseo-tomboy-general', atk='thrust', atk8=True, act=True, legacy=(('a', 2), ('a', 3), ('b', 3), ('b', 4))),   # 이서 말괄량이 장군(창 · 우람한 뼈대)
+    'beol': dict(strip='gen-base-w-72-eumjeup-beol', atk='slash', atk8=True, act=True, legacy=(('a', 1), ('a', 3), ('b', 2), ('b', 4))),   # 음즙 벌(한 손 칼 · 우람한 뼈대) · 좁은 칸은 아라처럼 덜 뻗은 칸
     'haebi': dict(strip='gen-haebi', atk='chop', atk8=True, act=True),   # act = 공격 여덟 칸이 넓은 동작 칸(240×224 · 뿌리 92 · 발 줄 216)
     'areum': dict(strip='gen-areum', atk='slam', atk8=True, act=True, lock='none'),   # 받은 그림 그대로(얼굴을 떠다 붙이지 않는다 — 11-24: 뭉친 얼굴이 여덟 칸에 퍼졌다) · 옛 lock='face': 메가 머리 뒤로 지나간다 — 머리 상자는 메를 자르고(「포스터」), 윗몸을 통째로 묶으면 떠다닌다(11-24 형) → 얼굴 안쪽만 묶는다
 }
